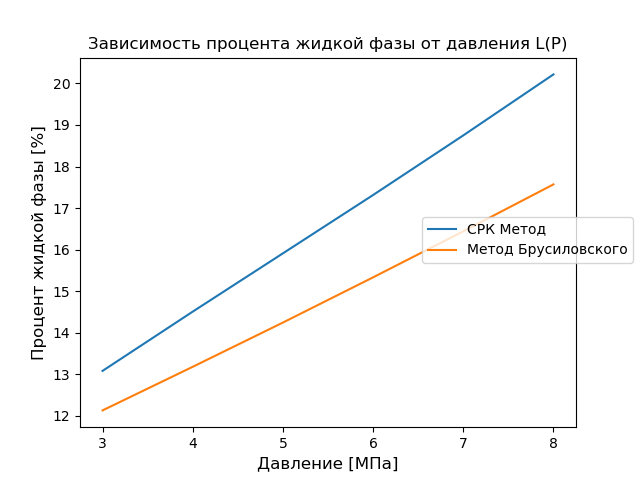
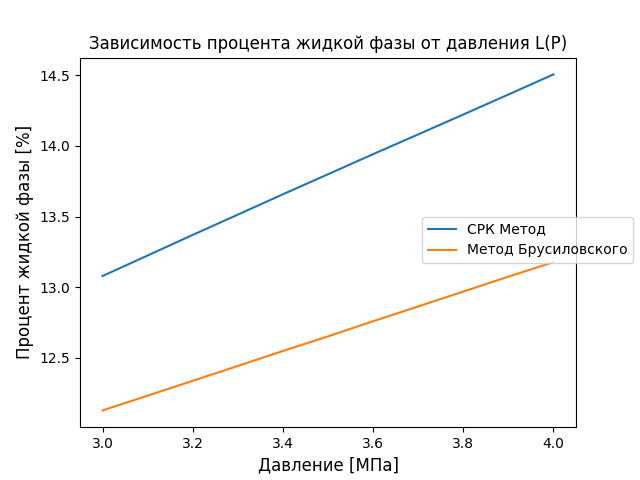
Third Version
New Update

diff --git a/View/gui.py b/View/gui.py
@@ -13,6 +13,7 @@ class Ui_MainWindow(object):
         MainWindow.setObjectName("MainWindow")
         MainWindow.resize(888, 511)
         self.centralwidget = QtWidgets.QWidget(MainWindow)
+        self.centralwidget.setStyleSheet("")
         self.centralwidget.setObjectName("centralwidget")
         self.splitter_2 = QtWidgets.QSplitter(self.centralwidget)
         self.splitter_2.setGeometry(QtCore.QRect(20, 20, 851, 431))
@@ -23,52 +24,86 @@ class Ui_MainWindow(object):
         self.groupBox_2.setObjectName("groupBox_2")
         self.start = QtWidgets.QPushButton(self.groupBox_2)
         self.start.setGeometry(QtCore.QRect(20, 360, 75, 25))
+        font = QtGui.QFont()
+        font.setPointSize(11)
+        self.start.setFont(font)
+        self.start.setStyleSheet("background-color:rgb(170, 0, 0);\n"
+"color:white\n"
+"")
         self.start.setObjectName("start")
         self.filename = QtWidgets.QLineEdit(self.groupBox_2)
-        self.filename.setGeometry(QtCore.QRect(20, 30, 191, 20))
+        self.filename.setGeometry(QtCore.QRect(110, 70, 191, 20))
+        self.filename.setStyleSheet("background-color:white")
         self.filename.setObjectName("filename")
         self.browse = QtWidgets.QPushButton(self.groupBox_2)
-        self.browse.setGeometry(QtCore.QRect(220, 30, 75, 23))
+        self.browse.setGeometry(QtCore.QRect(310, 70, 75, 23))
+        self.browse.setStyleSheet("background-color:white")
         self.browse.setObjectName("browse")
-        self.label = QtWidgets.QLabel(self.groupBox_2)
-        self.label.setGeometry(QtCore.QRect(20, 10, 151, 16))
-        self.label.setObjectName("label")
-        self.pushButton = QtWidgets.QPushButton(self.groupBox_2)
-        self.pushButton.setGeometry(QtCore.QRect(20, 390, 75, 23))
-        self.pushButton.setObjectName("pushButton")
+        self.secterButton = QtWidgets.QPushButton(self.groupBox_2)
+        self.secterButton.setGeometry(QtCore.QRect(40, 400, 75, 23))
+        self.secterButton.setStyleSheet("background-color:rgb(255, 0, 255)")
+        self.secterButton.setObjectName("secterButton")
         self.label_2 = QtWidgets.QLabel(self.groupBox_2)
-        self.label_2.setGeometry(QtCore.QRect(20, 60, 101, 21))
+        self.label_2.setGeometry(QtCore.QRect(20, 100, 101, 21))
+        self.label_2.setStyleSheet("")
         self.label_2.setObjectName("label_2")
         self.Temperature = QtWidgets.QDoubleSpinBox(self.groupBox_2)
-        self.Temperature.setGeometry(QtCore.QRect(20, 80, 91, 31))
+        self.Temperature.setGeometry(QtCore.QRect(20, 120, 91, 31))
+        self.Temperature.setStyleSheet("background-color:white")
         self.Temperature.setMinimum(-272.0)
         self.Temperature.setMaximum(500.0)
         self.Temperature.setObjectName("Temperature")
         self.Pmin = QtWidgets.QDoubleSpinBox(self.groupBox_2)
-        self.Pmin.setGeometry(QtCore.QRect(20, 140, 91, 31))
+        self.Pmin.setGeometry(QtCore.QRect(20, 190, 91, 31))
+        self.Pmin.setStyleSheet("background-color:white")
         self.Pmin.setMaximum(10.0)
         self.Pmin.setSingleStep(0.1)
         self.Pmin.setObjectName("Pmin")
         self.label_3 = QtWidgets.QLabel(self.groupBox_2)
-        self.label_3.setGeometry(QtCore.QRect(20, 120, 191, 21))
+        self.label_3.setGeometry(QtCore.QRect(20, 160, 191, 21))
+        self.label_3.setStyleSheet("")
         self.label_3.setObjectName("label_3")
         self.Pmax = QtWidgets.QDoubleSpinBox(self.groupBox_2)
-        self.Pmax.setGeometry(QtCore.QRect(20, 200, 91, 31))
+        self.Pmax.setGeometry(QtCore.QRect(20, 260, 91, 31))
+        self.Pmax.setStyleSheet("background-color:white")
         self.Pmax.setMaximum(10.0)
         self.Pmax.setSingleStep(0.1)
         self.Pmax.setObjectName("Pmax")
         self.label_4 = QtWidgets.QLabel(self.groupBox_2)
-        self.label_4.setGeometry(QtCore.QRect(20, 180, 201, 21))
+        self.label_4.setGeometry(QtCore.QRect(20, 230, 201, 21))
+        self.label_4.setStyleSheet("")
         self.label_4.setObjectName("label_4")
         self.Pstep = QtWidgets.QDoubleSpinBox(self.groupBox_2)
-        self.Pstep.setGeometry(QtCore.QRect(20, 260, 91, 31))
+        self.Pstep.setGeometry(QtCore.QRect(20, 320, 91, 31))
+        self.Pstep.setStyleSheet("background-color:white")
         self.Pstep.setMinimum(0.1)
         self.Pstep.setMaximum(1.0)
         self.Pstep.setSingleStep(0.1)
         self.Pstep.setObjectName("Pstep")
         self.label_5 = QtWidgets.QLabel(self.groupBox_2)
-        self.label_5.setGeometry(QtCore.QRect(20, 240, 151, 21))
+        self.label_5.setGeometry(QtCore.QRect(20, 300, 151, 21))
+        self.label_5.setStyleSheet("")
         self.label_5.setObjectName("label_5")
+        self.frame = QtWidgets.QFrame(self.groupBox_2)
+        self.frame.setGeometry(QtCore.QRect(0, 0, 411, 61))
+        self.frame.setStyleSheet("background-color: rgb(170, 0, 0)")
+        self.frame.setFrameShape(QtWidgets.QFrame.StyledPanel)
+        self.frame.setFrameShadow(QtWidgets.QFrame.Raised)
+        self.frame.setObjectName("frame")
+        self.label_6 = QtWidgets.QLabel(self.frame)
+        self.label_6.setGeometry(QtCore.QRect(50, 10, 301, 41))
+        font = QtGui.QFont()
+        font.setFamily("Yu Gothic UI Semibold")
+        font.setPointSize(24)
+        font.setBold(True)
+        font.setWeight(75)
+        self.label_6.setFont(font)
+        self.label_6.setStyleSheet("color:white")
+        self.label_6.setObjectName("label_6")
+        self.label = QtWidgets.QLabel(self.groupBox_2)
+        self.label.setGeometry(QtCore.QRect(20, 70, 81, 16))
+        self.label.setStyleSheet("")
+        self.label.setObjectName("label")
         MainWindow.setCentralWidget(self.centralwidget)
         self.menubar = QtWidgets.QMenuBar(MainWindow)
         self.menubar.setGeometry(QtCore.QRect(0, 0, 888, 21))
@@ -86,10 +121,11 @@ class Ui_MainWindow(object):
         MainWindow.setWindowTitle(_translate("MainWindow", "MainWindow"))
         self.start.setText(_translate("MainWindow", "Пуск"))
         self.browse.setText(_translate("MainWindow", "Выбрать"))
-        self.label.setText(_translate("MainWindow", "Выберите файл"))
-        self.pushButton.setText(_translate("MainWindow", "Нарния"))
+        self.secterButton.setText(_translate("MainWindow", "Нарния"))
         self.label_2.setText(_translate("MainWindow", "Температура, *С"))
         self.label_3.setText(_translate("MainWindow", "Давление, нижняя граница (Мпа)"))
         self.label_4.setText(_translate("MainWindow", "Давление, верхняя граница (Мпа)"))
         self.label_5.setText(_translate("MainWindow", "Давление, шаг (Мпа)"))
+        self.label_6.setText(_translate("MainWindow", "Фазовые состояния"))
+        self.label.setText(_translate("MainWindow", "Выберите файл"))
 

diff --git a/reader.py b/reader.py
@@ -2,7 +2,9 @@ import pandas as pd
 from Model.PhaseModel import PhaseModel
 import matplotlib.pyplot as plt
 
-pth = r"C:\Users\Egor\Documents\CourseProject\Test.xlsx"
+
+
+pth = r"D:\Программирование\ForPolitech\PhaseEquations\Test.xlsx"
 model = PhaseModel()
 data = pd.read_excel(pth)
 dict ={"CH4":0,
@@ -22,16 +24,14 @@ for name in data['name'].values[:]:
     model.massFractions[dict[name]] = data['z'].values[ind]
     ind+=1
 
-model.Pressure = 5
+model.Pressure = 3
 model.currentT =10
-model.maximumPressure =8
+model.maximumPressure =4
 model.minimalPressure =3
-model.Pstep = 0.5
+model.Pstep = 0.1
 
 X,Y1,Y2 = model.graph(model.massFractions, model.acentricFactor, model.criticalPressure,
                                                model.criticalTemperature, model.Pressure, model.currentT, model.c_ij)
-
-
 fig = plt.figure()
 plt.xlabel(u'Давление [МПа]', fontsize=12)
 plt.ylabel(u'Процент жидкой фазы [%]', fontsize=12)
@@ -43,3 +43,4 @@ fig.legend(loc='center right')
 plt.savefig('L(P)')
 plt.grid(True, color='black')
 plt.show()
+

diff --git a/Model/PhaseModel.py b/Model/PhaseModel.py
@@ -2,6 +2,7 @@ import numpy as np
 import math
 from math import log as ln
 
+
 class PhaseModel(object):
     """
     Класс FilterModel представляет собой реализацию модели данных
@@ -612,11 +613,13 @@ class PhaseModel(object):
             yield x
             x += step
 
+
+
     def graph(self, massFractions, acentricFactor, criticalPressure, criticalTemperature, Pressure, currentT, c_ij):
         result_SRK = []
         result_brusilovski = []
         P_arr = []
-        for P in self.frange(self.minimalPressure, self.maximumPressure + 1, self.Pstep):
+        for P in np.arange(self.minimalPressure, self.maximumPressure + self.Pstep , self.Pstep):
             tmp = self.SRK_method(massFractions, acentricFactor, criticalPressure, criticalTemperature, P, currentT, c_ij)[0]
             # print("СРК","Pressure=", Pressure, "L =", tmp)
             tmp1 = self.brusilovski_method(massFractions, acentricFactor, criticalPressure, criticalTemperature, P, currentT, c_ij)[0]

diff --git a/View/converter.py b/View/converter.py
@@ -1,0 +1,2 @@
+import os #Used in Testing Script
+os.system("pyuic5 -o gui.py gui.ui")
